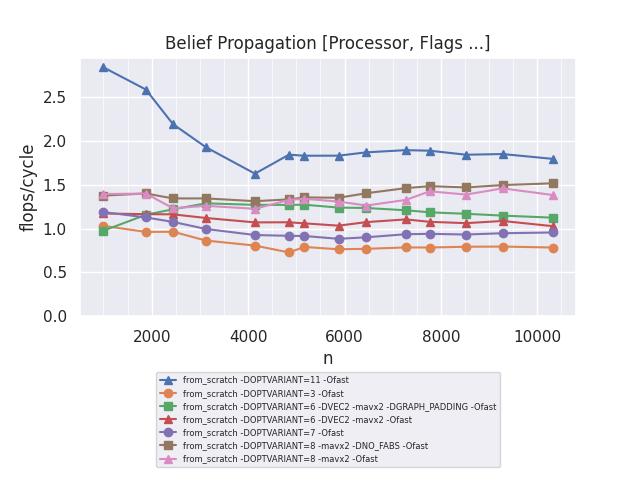
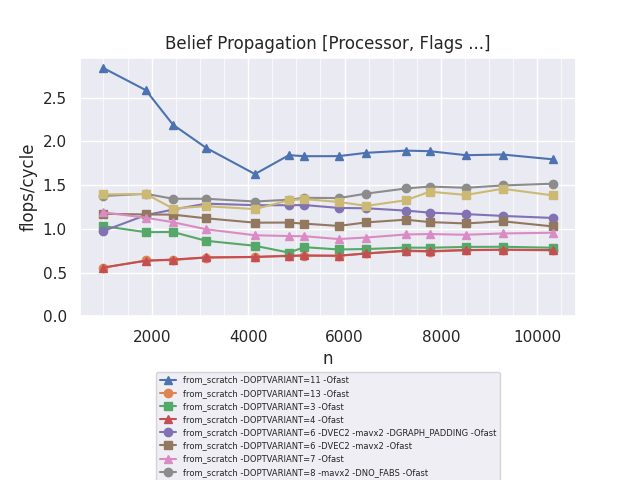
belief3_restrict: using __restrict__

diff --git a/from_scratch/src/belief3_restrict.h b/from_scratch/src/belief3_restrict.h
@@ -1,0 +1,163 @@
+#ifndef BELIEF_BELIEF_H
+#define BELIEF_BELIEF_H
+#include <string.h>
+#include "factor.h"
+
+// Based on belief3_unroll.h
+/* Do one step of belief propagation. */
+void propagate(graph_t *G) {
+	// swap G->in and G->in_out
+	msg_t *tmp = G->in;
+	G->in = G->in_old;
+	G->in_old = tmp;
+
+	const auto n = G->n;
+	const idx_t* __restrict__ off = G->off;
+	const msg_t* __restrict__ in = G->in;
+	const msg_t* __restrict__ in_old = G->in_old;
+	const idx_t* __restrict__ Gout = G->out;
+	const potential_t* __restrict__ node_pot = G->node_pot;
+
+	for (idx_t i = 0; i < n; i++) {
+		float_t pot_i0 = ((float_t *)&node_pot[i])[0];
+		float_t pot_i1 = ((float_t *)&node_pot[i])[1];
+
+		float_t prod_tot0 = 1;
+		float_t prod_tot1 = 1;
+		for (idx_t k = off[i]; k < off[i + 1]; k++) {
+			prod_tot0 *= ((float_t *)&in_old[k])[0];
+			prod_tot1 *= ((float_t *)&in_old[k])[1];
+		}
+		float_t glob00 = PROP_00 * pot_i0 * prod_tot0;
+		float_t glob01 = PROP_01 * pot_i0 * prod_tot0;
+		float_t glob10 = PROP_10 * pot_i1 * prod_tot1;
+		float_t glob11 = PROP_11 * pot_i1 * prod_tot1;
+
+		//unrolled just like belief_simpleUnroll.h
+        size_t end = off[i + 1];
+        for (idx_t j = off[i]; j < end - 3; j+=4) {
+#ifdef GRAPH_PADDING
+			if (Gout[j] == -1)
+				break; // reached padding
+#endif
+
+			float_t val0a = ((float_t *)&in_old[j])[0];
+			float_t val1a = ((float_t *)&in_old[j])[1];
+			float_t * __restrict__ _outa = (float_t *)(in + Gout[j]);
+			float_t out0a = 0;
+			float_t out1a = 0;
+
+            float_t val0b = ((float_t *)&in_old[j+1])[0];
+			float_t val1b = ((float_t *)&in_old[j+1])[1];
+			float_t * __restrict__ _outb = (float_t *)(in + Gout[j+1]);
+			float_t out0b = 0;
+			float_t out1b = 0;
+
+            float_t val0c = ((float_t *)&in_old[j+2])[0];
+			float_t val1c = ((float_t *)&in_old[j+2])[1];
+			float_t * __restrict__ _outc = (float_t *)(in + Gout[j+2]);
+			float_t out0c = 0;
+			float_t out1c = 0;
+
+            float_t val0d = ((float_t *)&in_old[j]+3)[0];
+			float_t val1d = ((float_t *)&in_old[j+3])[1];
+			float_t * __restrict__ _outd = (float_t *)(in + Gout[j+3]);
+			float_t out0d = 0;
+			float_t out1d = 0;
+
+			out0a += glob00 / val0a;
+			out1a += glob01 / val0a;
+			out0a += glob10 / val1a;
+			out1a += glob11 / val1a;
+
+            out0b += glob00 / val0b;
+			out1b += glob01 / val0b;
+			out0b += glob10 / val1b;
+			out1b += glob11 / val1b;
+
+            out0c += glob00 / val0c;
+			out1c += glob01 / val0c;
+			out0c += glob10 / val1c;
+			out1c += glob11 / val1c;
+
+            out0d += glob00 / val0d;
+			out1d += glob01 / val0d;
+			out0d += glob10 / val1d;
+			out1d += glob11 / val1d;
+
+#ifdef DEBUG
+			printf("unnorm: %f %f\n", out0, out1);
+#endif
+			float_t a = out0a + out1a;
+			if (fabs(a) < EPS) {
+				_outa[0] = .5;
+				_outa[1] = .5;
+			} else {
+				_outa[0] = out0a / a;
+				_outa[1] = out1a / a;
+			}
+
+            float_t b = out0b + out1b;
+			if (fabs(b) < EPS) {
+				_outb[0] = .5;
+				_outb[1] = .5;
+			} else {
+				_outb[0] = out0b / b;
+				_outb[1] = out1b / b;
+			}
+
+            float_t c = out0c + out1c;
+			if (fabs(c) < EPS) {
+				_outc[0] = .5;
+				_outc[1] = .5;
+			} else {
+				_outc[0] = out0c / c;
+				_outc[1] = out1c / c;
+			}
+
+            float_t d = out0d + out1d;
+			if (fabs(d) < EPS) {
+				_outd[0] = .5;
+				_outd[1] = .5;
+			} else {
+				_outd[0] = out0d / d;
+				_outd[1] = out1d / d;
+			}
+		}
+
+        //leftover loop
+        for (idx_t j = max(0, end-3); j < end; j++) {
+#ifdef GRAPH_PADDING
+			if (Gout[j] == -1)
+				break; // reached padding
+#endif
+
+			float_t val0 = ((float_t *)&in_old[j])[0];
+			float_t val1 = ((float_t *)&in_old[j])[1];
+			float_t * __restrict__ _out = (float_t *)(in + Gout[j]);
+			float_t out0 = 0;
+			float_t out1 = 0;
+
+			out0 += glob00 / val0;
+			out1 += glob01 / val0;
+			out0 += glob10 / val1;
+			out1 += glob11 / val1;
+
+#ifdef DEBUG
+			printf("unnorm: %f %f\n", out0, out1);
+#endif
+			float_t a = out0 + out1;
+			if (fabs(a) < EPS) {
+				_out[0] = .5;
+				_out[1] = .5;
+			} else {
+				_out[0] = out0 / a;
+				_out[1] = out1 / a;
+			}
+		}
+	}
+
+}
+
+#include "get_belief_stock.h"
+#endif

diff --git a/README.md b/README.md
@@ -75,3 +75,9 @@
 - combines belief5.h and belief3_vector.h
 - increase memory throughput + flops/cycle should move closer to 2 and be greater than for all previous approaches
 - no, the flops/cycle is not greater than for all previous approaches for all input sizes
+
+### Using __restrict__
+- belief3_restrict.h
+- based on belief3_unroll.h
+- see whether the compiler can take advantage of this additional information
+- no, it does not seem to make any difference
